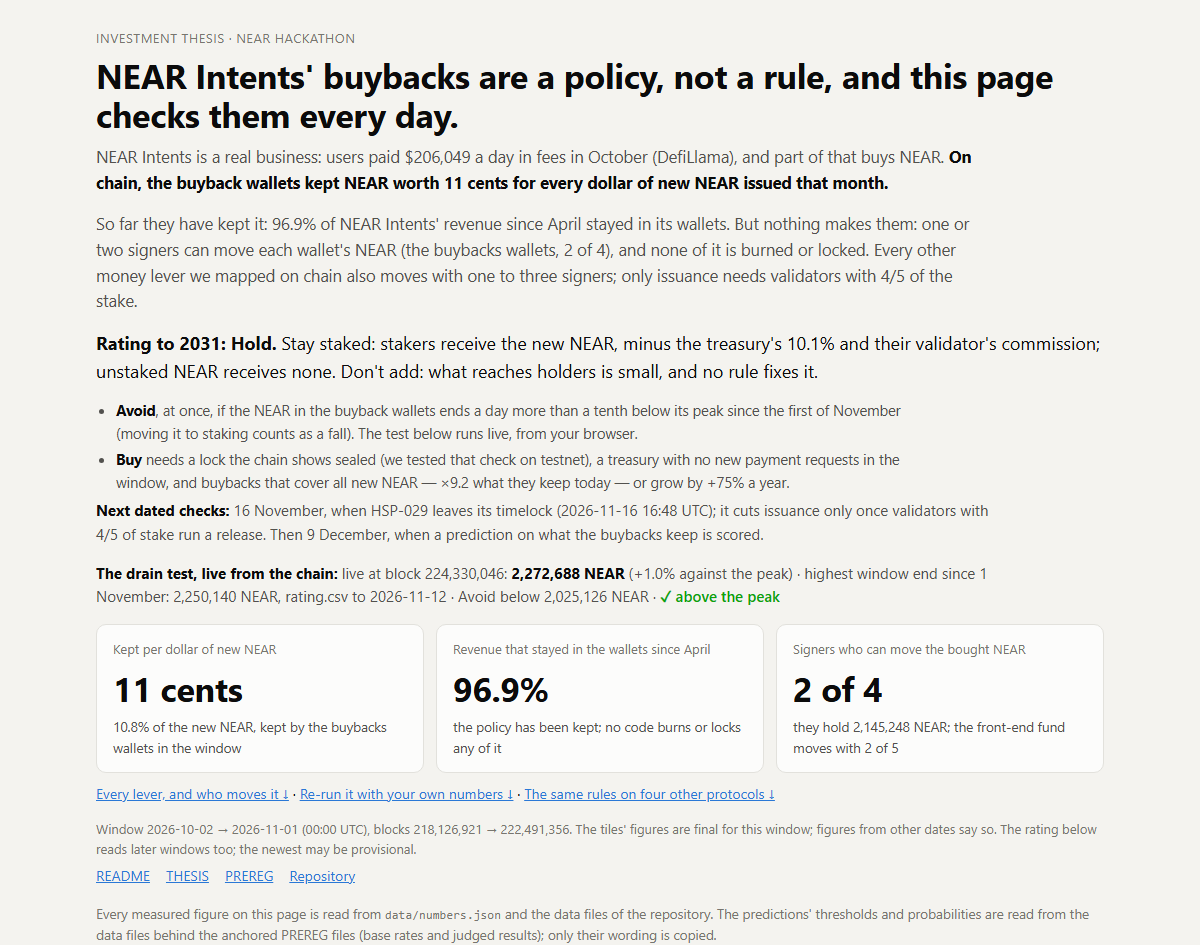
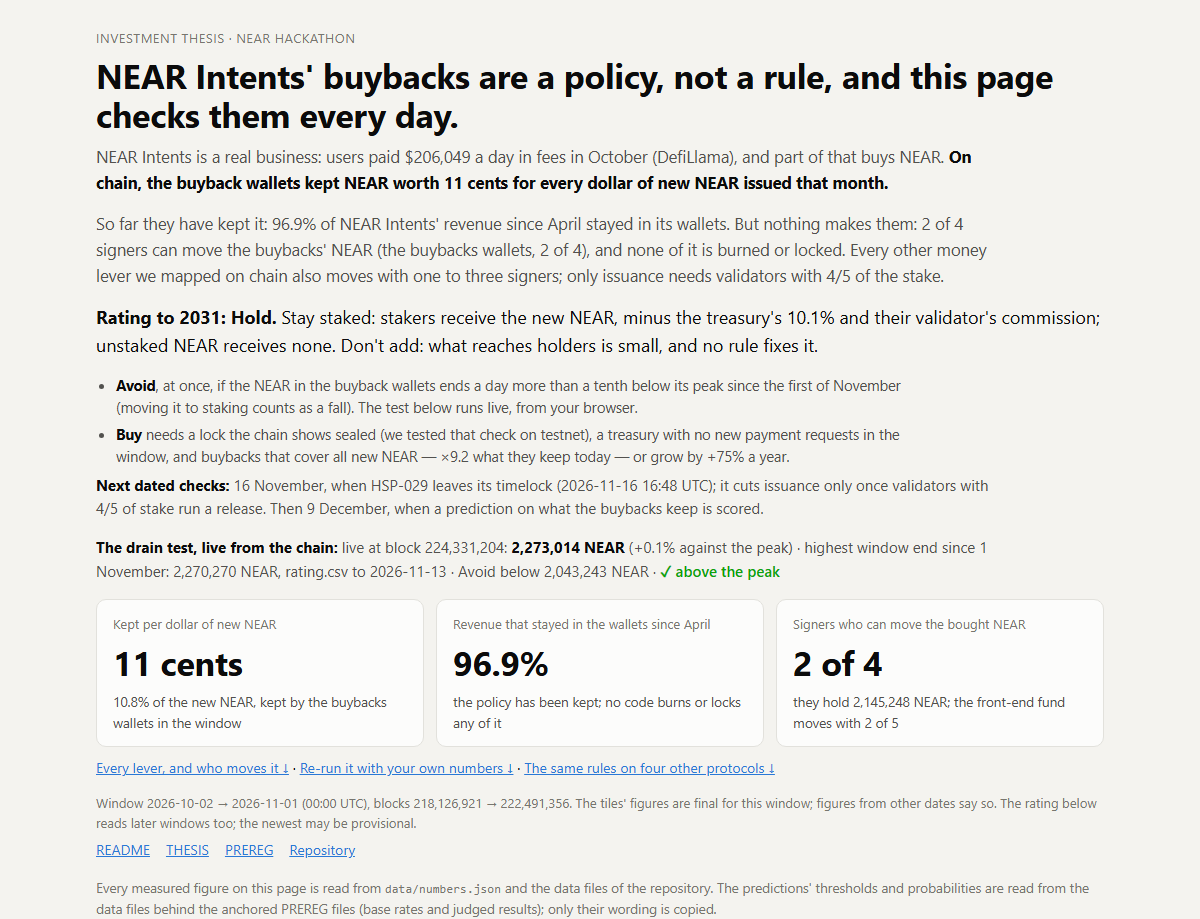
The levers picture is drawn by the repository and checked by rebuild; README shows it and four dashboard pictures
- scripts/levers_chart.py now draws docs/levers.svg from data/numbers.json (it was drawn by a script outside
  the repository); --verify redraws and compares, and rebuild.py runs it as a step.
- The picture no longer says "44 of 381 validators": nearcore counts block producers' votes, so it says
  block producers with more than 4/5 of their stake, as THESIS and DETAILS now do.
- Dashboard first screen: "2 of 4 signers can move the buybacks' NEAR" (c.buybacks_confirmations), as the
  README, not "one or two signers".
- README: the levers picture under the first screen, and a 2x2 grid of dashboard pictures (docs/media/)
  with one-line captions, each linking to its part of the dashboard or the README.

Claude-Session: https://claude.ai/code/session_01YNAFCHGm3JgZ64Lxc9fosB

Changed region(s): [[0.0617, 0.0305, 0.925, 0.6398], [0.0617, 0.6703, 0.925, 0.975], [0.6475, 0.6703, 0.8942, 0.8226]]

diff --git a/dashboard/index.html b/dashboard/index.html
@@ -16,7 +16,7 @@
     October (DefiLlama), and part of that buys NEAR. <strong>On chain, the buyback wallets kept NEAR worth
     <span data-n="iv.cents_per_new_dollar">11 cents</span> for every dollar of new NEAR issued that month.</strong></p>
   <p class="lede">So far they have kept it: <span data-n="f2.wallets_kept_share_of_revenue.2026-04_2026-10">96.9%</span> of NEAR
-    Intents' revenue since April stayed in its wallets. But nothing makes them: one or two signers can move each wallet's NEAR
+    Intents' revenue since April stayed in its wallets. But nothing makes them: <span data-n="c.buybacks_confirmations">2 of 4</span> signers can move the buybacks' NEAR
     (the buybacks wallets, <span data-n="c.buybacks_confirmations">2 of 4</span>), and none of it is burned or locked. Every other
     money lever we mapped on chain also moves with one to three signers; only issuance needs validators with
     <span data-n="c.issuance_upgrade_stake_threshold">4/5</span> of the stake.</p>

diff --git a/scripts/levers_chart.py b/scripts/levers_chart.py
@@ -1,0 +1,151 @@
+"""Draw docs/levers.svg: who holds each lever, from the fees users pay to what a holder keeps.
+
+    python scripts/levers_chart.py            write docs/levers.svg from data/numbers.json
+    python scripts/levers_chart.py --verify   redraw it and compare with the committed file
+
+Every figure in the picture is read from data/numbers.json (the same keys the dashboard uses, from
+data/control_map.json), so no digit is typed by hand. tests/test_dashboard.py also checks that every
+figure in the file is a value in numbers.json.
+"""
+import json
+import sys
+from pathlib import Path
+
+W, H = 1400, 712
+COLS = [(24, 250), (298, 260), (590, 360), (982, 394)]
+FEW, RULE, OFF = "few", "rule", "off"
+
+STYLE = """<style>
+svg{--bg:#ffffff;--ink:#1f2328;--mute:#59636e;--card:#f7f7f5;--line:#d8d8d2;--few:#c2410c;--rule:#15803d;--fewbg:#fdf0e8;--rulebg:#eaf6ee}
+@media (prefers-color-scheme:dark){svg{--bg:#0d1117;--ink:#e6edf3;--mute:#9198a1;--card:#161b22;--line:#30363d;--few:#f0834c;--rule:#4ac07c;--fewbg:#231611;--rulebg:#102018}}
+text{font-family:-apple-system,BlinkMacSystemFont,'Segoe UI',Helvetica,Arial,sans-serif;fill:var(--ink)}
+.bg{fill:var(--bg)}
+.h{font-size:27px;font-weight:700}.sub{font-size:18px;fill:var(--mute)}
+.rowh{font-size:16px;font-weight:700;fill:var(--mute);letter-spacing:.06em}
+.bx{fill:var(--card);stroke:var(--line);stroke-width:1.5}
+.bx.few{fill:var(--fewbg)}.bx.rule{fill:var(--rulebg)}
+.bar.few{fill:var(--few)}.bar.rule{fill:var(--rule)}.bar.off{fill:var(--mute)}
+.t{font-size:21px;font-weight:700}.v{font-size:19px;fill:var(--ink)}
+.w{font-size:17px;font-weight:600}.w.few{fill:var(--few)}.w.rule{fill:var(--rule)}.w.off{fill:var(--mute)}
+.ar{stroke:var(--mute);stroke-width:3;fill:none}.arh{fill:var(--mute)}
+.key{font-size:17px;fill:var(--mute)}.foot{font-size:16px;fill:var(--mute)}
+</style>"""
+
+
+def esc(s):
+    return s.replace("&", "&amp;").replace("<", "&lt;").replace(">", "&gt;")
+
+
+def box(x, y, w, h, kind, title, lines, who):
+    """One link: a title, its value, and who can change it."""
+    out = ['<rect class="bx %s" x="%d" y="%d" width="%d" height="%d" rx="10"/>' % (kind, x, y, w, h),
+           '<rect class="bar %s" x="%d" y="%d" width="8" height="%d"/>' % (kind, x, y, h)]
+    ty = y + 34
+    out.append('<text class="t" x="%d" y="%d">%s</text>' % (x + 22, ty, esc(title)))
+    for ln in lines:
+        ty += 27
+        out.append('<text class="v" x="%d" y="%d">%s</text>' % (x + 22, ty, esc(ln)))
+    if who:
+        out.append('<text class="w %s" x="%d" y="%d">%s</text>' % (kind, x + 22, y + h - 16, esc(who)))
+    return "\n".join(out)
+
+
+def arrow(x1, x2, y):
+    return ('<path class="ar" d="M %d %d H %d"/>' % (x1, y, x2 - 12) +
+            '<path class="arh" d="M %d %d L %d %d L %d %d Z"/>' % (x2 - 13, y - 7, x2, y, x2 - 13, y + 7))
+
+
+def main():
+    verify = "--verify" in sys.argv[1:]
+    repo = Path(__file__).resolve().parent.parent
+    n = json.loads((repo / "data" / "numbers.json").read_text(encoding="utf-8"))["numbers"]
+
+    def t(key):
+        return n[key]["text"]
+
+    (x1, w1), (x2, w2), (x3, w3), (x4, w4) = COLS
+    s = ['<svg xmlns="http://www.w3.org/2000/svg" width="%d" height="%d" viewBox="0 0 %d %d" '
+         'role="img" aria-labelledby="ttl desc">' % (W, H, W, H),
+         '<title id="ttl">Who holds each lever, from the fee a user pays to the NEAR a holder keeps</title>',
+         '<desc id="desc">Two flows read on chain. Above: users’ fees reach NEAR Intents, then three revenue '
+         'wallets, and stop there — no lock, no burn, and each of those wallets moves with two signers. Below: '
+         'new NEAR is issued under a protocol rule that only validators with four fifths of the stake can change; '
+         'the treasury takes its share with two signers, and stakers receive the rest.</desc>',
+         STYLE,
+         '<rect class="bg" width="%d" height="%d" rx="8"/>' % (W, H),
+         '<text class="h" x="24" y="40">Who holds each lever</text>',
+         '<text class="sub" x="24" y="68">Read on chain at the window’s end block. '
+         'The colour says how many signatures move it.</text>']
+
+    # ---- fees -> holders
+    s.append('<text class="rowh" x="24" y="104">FEES &#8594; HOLDERS</text>')
+    ay = 116
+    s.append(box(x1, ay + 101, w1, 134, OFF, "Fees users pay",
+                 ["%s bps of volume" % t("n2.fees_bps"), "%s a day in October" % t("n2.fees_usd_per_day")],
+                 "set off-chain, by the apps"))
+    s.append(box(x2, ay + 101, w2, 134, FEW, "NEAR Intents",
+                 ["intents.near", "protocol fee %s" % t("c.intents_fee_pips")],
+                 "DAO: %s signers" % t("c.intents_fee_change")))
+    bh = 104
+    s.append(box(x3, ay, w3, bh, FEW, "Buybacks wallets",
+                 ["%s NEAR" % t("n1.buybacks_held_near")],
+                 "multisig: %s signers" % t("c.buybacks_confirmations")))
+    s.append(box(x3, ay + 116, w3, bh, FEW, "1Click fee fund",
+                 ["holds NEAR with the buybacks stock"],
+                 "DAO: %s signers" % t("c.wallet_1cs_transfer")))
+    s.append(box(x3, ay + 232, w3, bh, FEW, "Front-end fund",
+                 ["%s NEAR" % t("n1.front_end_held_near")],
+                 "send %s · rules %s" % (t("c.front_end_transfer"), t("c.front_end_rules"))))
+    s.append(box(x4, ay + 88, w4, 160, FEW, "No lock. No burn.",
+                 ["The wallets kept %s for every" % t("iv.cents_per_new_dollar"),
+                  "dollar of new NEAR issued;",
+                  "%s of revenue stayed in" % t("f2.wallets_kept_share_of_revenue.2026-04_2026-10")],
+                 "nothing on chain requires it"))
+    s.append(arrow(x1 + w1, x2, ay + 168))
+    s.append(arrow(x2 + w2, x3, ay + 168))
+    s.append(arrow(x3 + w3, x4, ay + 168))
+
+    # ---- new NEAR -> stakers
+    by = 516
+    s.append('<text class="rowh" x="24" y="%d">NEW NEAR &#8594; STAKERS</text>' % (by - 16))
+    s.append(box(x1, by, w1, 134, RULE, "New NEAR issued",
+                 ["at most %s a year" % t("c.issuance_max_inflation_rate"), "a protocol rule"],
+                 "%s of the stake" % t("c.issuance_upgrade_stake_threshold")))
+    s.append(box(x2, by, w2, 134, RULE, "Validators run it",
+                 ["block producers with more",
+                  "than %s of their stake" % t("c.issuance_upgrade_stake_threshold")],
+                 "a release, not a vote"))
+    s.append(box(x3, by, w3, 134, FEW, "treasury.near",
+                 ["%s of the new NEAR" % t("c.treasury_share_of_new_supply"),
+                  "paid %s NEAR out this year" % t("ts.year_out_near")],
+                 "multisig: %s signers" % t("c.treasury_confirmations")))
+    s.append(box(x4, by, w4, 134, RULE, "Stakers",
+                 ["receive the rest, minus their", "validator’s commission;",
+                  "unstaked NEAR receives none"], ""))
+    s.append(arrow(x1 + w1, x2, by + 67))
+    s.append(arrow(x2 + w2, x3, by + 67))
+    s.append(arrow(x3 + w3, x4, by + 67))
+
+    ky = H - 28
+    s.append('<rect class="bar few" x="24" y="%d" width="8" height="18"/>' % (ky - 14))
+    s.append('<text class="key" x="40" y="%d">moves with one to three signatures</text>' % ky)
+    s.append('<rect class="bar rule" x="420" y="%d" width="8" height="18"/>' % (ky - 14))
+    s.append('<text class="key" x="436" y="%d">a protocol rule, or many validators</text>' % ky)
+    s.append('<rect class="bar off" x="790" y="%d" width="8" height="18"/>' % (ky - 14))
+    s.append('<text class="key" x="806" y="%d">set off the chain</text>' % ky)
+    s.append('<text class="foot" x="1036" y="%d">data/control_map.json · data/numbers.json</text>' % ky)
+    s.append("</svg>")
+
+    out = repo / "docs" / "levers.svg"
+    text = "\n".join(s) + "\n"
+    if verify:
+        same = out.exists() and out.read_text(encoding="utf-8") == text
+        print("OK: docs/levers.svg is the picture drawn from data/numbers.json" if same
+              else "DIFFERS: run python scripts/levers_chart.py")
+        sys.exit(0 if same else 1)
+    out.write_text(text, encoding="utf-8", newline="\n")
+    print("wrote %s (%d bytes)" % (out, out.stat().st_size))
+
+
+if __name__ == "__main__":
+    main()

diff --git a/scripts/rebuild.py b/scripts/rebuild.py
@@ -6,7 +6,7 @@ Runs, in order, with no network and no keys:
   3. the rating of every window (data/rating.csv) from history.csv and saved DefiLlama responses
   4. the validators' vote samples (data/upgrade_watch/)
   5. every marked number in README.md, EVIDENCE.md, docs/DETAILS.md and THESIS.md against numbers.json,
-     and the README's chart (docs/coverage.svg) redrawn from numbers.json
+     and the README's chart (docs/coverage.svg) and levers picture (docs/levers.svg) redrawn from numbers.json
   6. PREREG.md against its anchored SHA-256
 
 The dashboard (dashboard/) draws every chart from data/numbers.json and the data files
@@ -36,6 +36,7 @@ STEPS = [
     ("docs/DETAILS.md numbers", [PY, "scripts/build_numbers.py", "--check", "docs/DETAILS.md"]),
     ("THESIS.md numbers", [PY, "scripts/build_numbers.py", "--check", "THESIS.md"]),
     ("README chart", [PY, "scripts/chart.py", "--verify"]),
+    ("levers picture", [PY, "scripts/levers_chart.py", "--verify"]),
     ("PREREG.md anchored hash", [PY, "scripts/check_prereg.py", "--file"]),
     ("quoted pages", [PY, "scripts/quotes.py", "--verify"]),
 ]

diff --git a/tests/test_dashboard.py b/tests/test_dashboard.py
@@ -131,7 +131,7 @@ class TestDashboard(unittest.TestCase):
         self.assertIsNone(re.search(r'<link[^>]+href="https?:', self.html))
 
     def test_levers_svg_takes_its_numbers_from_numbers_json(self):
-        """Every figure drawn in docs/levers.svg is a value from numbers.json (video/make_levers.py writes it)."""
+        """Every figure drawn in docs/levers.svg is a value from numbers.json (scripts/levers_chart.py writes it)."""
         svg = (REPO / "docs" / "levers.svg").read_text(encoding="utf-8")
         pool = " ".join(v["text"] for v in self.numbers.values() if v["text"]) + " 1Click"
         drawn = []

diff --git a/README.md b/README.md
@@ -12,6 +12,8 @@ So far they have kept it: <!--n:f2.wallets_kept_share_of_revenue.2026-04_2026-10
 
 **What would change it.** Code applies the rules every day. **Avoid** at once if the NEAR in the buyback wallets ends a day more than 10% below its peak since 1 November (the test reads the wallets' balance, so staking it counts as a fall). **Buy** needs a lock the chain shows sealed (we tested that check on testnet), a treasury with no new multisig requests in the window, and buybacks that cover all new NEAR or grow by <!--n:lr.required_growth.buybacks.A.2031-->+75%<!--/n--> a year ([every condition](#the-rating-as-rules)). Next dated checks: 16 November and 9 December.
 
+![Who holds each lever, from the fee a user pays to the NEAR a holder keeps: the revenue wallets move with a few signatures and nothing locks or burns; only issuance is a protocol rule](docs/levers.svg)
+
 ## Why Hold
 
 | Question | Answer | The number |
@@ -30,6 +32,17 @@ So far they have kept it: <!--n:f2.wallets_kept_share_of_revenue.2026-04_2026-10
 **What this repository adds:** a rating that is code and re-reads mainnet every day (Avoid can fire any day; Buy needs a lock that does not exist) · predictions hashed on chain before they are judged, one of them judged automatically by a daily GitHub Action · the same rules run on four other protocols · NEAR's own use counted from blocks through BigQuery, as the track asks ([claim E](#e-the-chain-is-used-less-and-its-use-pays-holders-almost-nothing)).
 
 **[Live dashboard](https://nikolaskahris-png.github.io/near-thesis-data/dashboard/)** · [Try it in two minutes](#try-it-in-two-minutes) · [One-page thesis](THESIS.md) · [Every detail](docs/DETAILS.md) · [Terms](#terms) · Window: 2 October → 1 November 2026; any other date is named where used
+
+<table>
+  <tr>
+    <td width="50%" valign="top"><a href="https://nikolaskahris-png.github.io/near-thesis-data/dashboard/"><img src="docs/media/01-first-screen.png" alt="The dashboard's first screen: the rating, Hold, and the drain test read from NEAR mainnet" width="100%"></a><br><sub>The rating, and the drain test reading NEAR mainnet live every day.</sub></td>
+    <td width="50%" valign="top"><a href="https://nikolaskahris-png.github.io/near-thesis-data/dashboard/#pL"><img src="docs/media/02-levers.png" alt="The levers picture on the dashboard" width="100%"></a><br><sub>Every lever from fees to holders, and the signatures that move it.</sub></td>
+  </tr>
+  <tr>
+    <td width="50%" valign="top"><a href="#the-rating-as-rules"><img src="docs/media/03-rules.png" alt="The rating panel: this window's tests and the Buy and Avoid rules" width="100%"></a><br><sub>Hold today; code states what would make it Buy or Avoid.</sub></td>
+    <td width="50%" valign="top"><a href="EVIDENCE.md#the-same-rules-on-four-other-protocols"><img src="docs/media/04-peers.png" alt="The same rules applied to four other protocols" width="100%"></a><br><sub>The same rules run on Hyperliquid, Pump.fun, Aave and Jupiter.</sub></td>
+  </tr>
+</table>
 
 ## Try it in two minutes
 

diff --git a/docs/media/captions.md b/docs/media/captions.md
@@ -1,12 +1,12 @@
 # Captions for the pictures of the dashboard
 
 One caption per picture, for the grid at the top of the README. Pictures are 1200 px wide, taken from the live
-dashboard with `video/shots.py` (outside the repository); the drain test in the first one is read from mainnet.
+dashboard with a headless browser (the author's `video/shots.py`, outside the repository); the drain test in the first one is read from mainnet.
 
 | File | Caption |
 |---|---|
 | `01-first-screen.png` | The rating, and the drain test reading NEAR mainnet live every day. |
-| `02-levers.png` | Every lever from fees to holders: two signers move each revenue wallet. |
+| `02-levers.png` | Every lever from fees to holders, and the signatures that move it. |
 | `03-rules.png` | Hold today; code states what would make it Buy or Avoid. |
 | `04-peers.png` | The same rules run on Hyperliquid, Pump.fun, Aave and Jupiter. |
 
